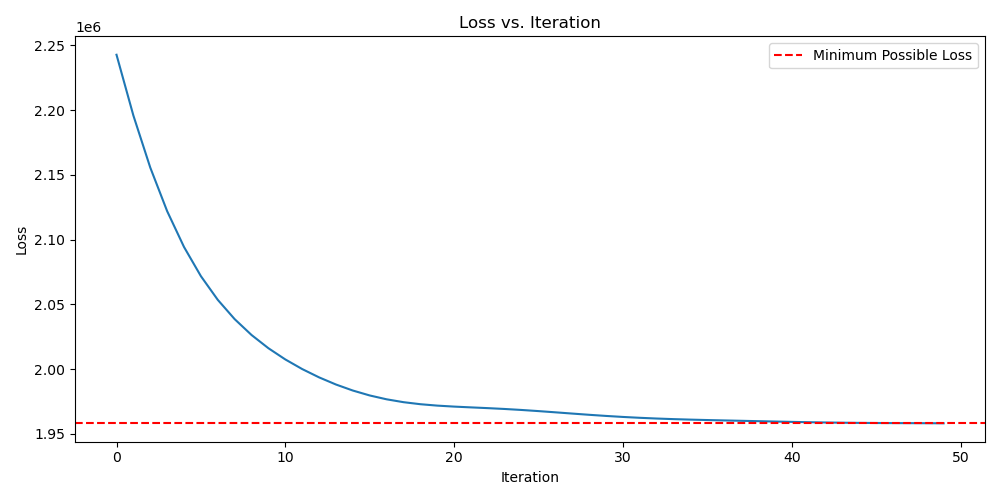
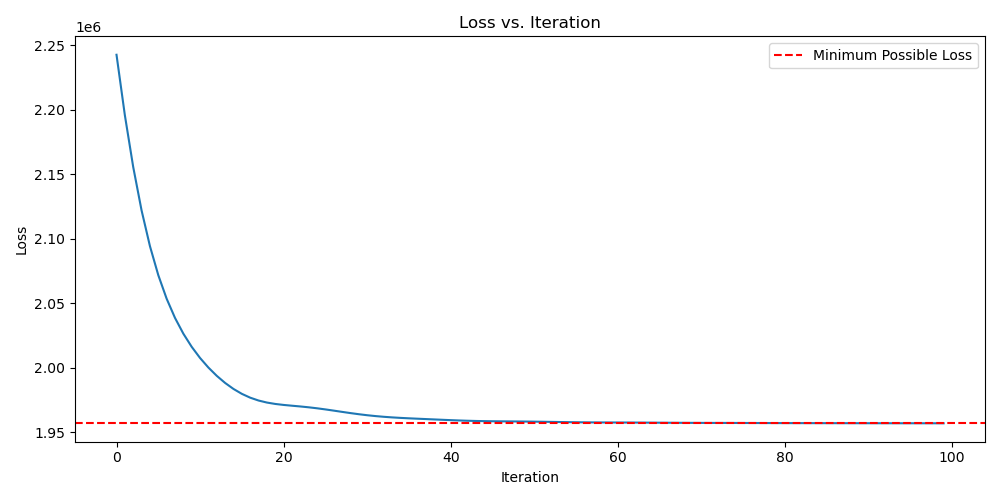
Cleanup code and add relevant comments

diff --git a/hw5_grdient_descent_doc_classification/unigram_pytorch.py b/hw5_grdient_descent_doc_classification/unigram_pytorch.py
@@ -45,13 +45,10 @@ class Unigram(nn.Module):
         # compute log probability of input
         return torch.sum(input, 1, keepdim=True).T @ logp
 
-
-
 def generate_optimal_text(token_probs, length):
     """Generate text based on optimal unigram probabilities."""
     tokens, probs = zip(*token_probs.items())
     return [random.choices(tokens, weights=probs)[0] for _ in range(length)]
-
 
 def gradient_descent_example():
     """Demonstrate gradient descent."""
@@ -76,8 +73,8 @@ def gradient_descent_example():
     model = Unigram(len(vocabulary))
 
     # set number of iterations and learning rate
-    num_iterations = 50 # SET THIS
-    learning_rate = 0.1  # SET THIS
+    num_iterations = 100
+    learning_rate = 0.1
 
     # train model
     optimizer = torch.optim.Adam(model.parameters(), lr=learning_rate)
@@ -91,41 +88,20 @@ def gradient_descent_example():
         optimizer.zero_grad()
         losses.append(loss.item())
 
-    # # Compute optimal probabilities
-    # token_counts = Counter(tokens)
-    # total_tokens = len(tokens)
-    # optimal_probs = torch.tensor([token_counts.get(token, 0) / total_tokens for token in vocabulary])
-    
-    # # Compute minimum possible loss using LogSoftmax
-    # optimal_log_probs = F.log_softmax(optimal_probs, dim=0)
-    # min_loss = -torch.sum(optimal_probs * optimal_log_probs)
-
-
     # Compute optimal probabilities
     token_counts = Counter(tokens)
     total_tokens = len(tokens)
     optimal_probs = {token: count / total_tokens for token, count in token_counts.items()}
 
-
-    # Generate text using optimal unigram model
+    # Generate the "optimal" text using optimal unigram model
     optimal_text = generate_optimal_text(optimal_probs, total_tokens)
     optimal_encodings = np.hstack([onehot(vocabulary, token) for token in optimal_text])
     optimal_x = torch.tensor(optimal_encodings.astype(float))
 
-    # Compute minimum possible loss
+    # Compute the loss for the "optimal" text as the minimum possible loss
     with torch.no_grad():
         optimal_logp = model(optimal_x)
         min_loss = loss_fn(optimal_logp).item()
-
-
-    # # Compute optimal probabilities
-    # token_counts = Counter(tokens)
-    # total_tokens = len(tokens)
-    # optimal_probs = {token: count / total_tokens for token, count in token_counts.items()}
-    # # optimal_probs[None] = 0  # Assume no unknown tokens in optimal case
-
-    # # Compute minimum possible loss
-    # min_loss = -sum(count * np.log(optimal_probs[token]) for token, count in token_counts.items())
 
     # Visualize final token probabilities
     learned_probs = torch.nn.Softmax(0)(model.s).detach().numpy().flatten()
